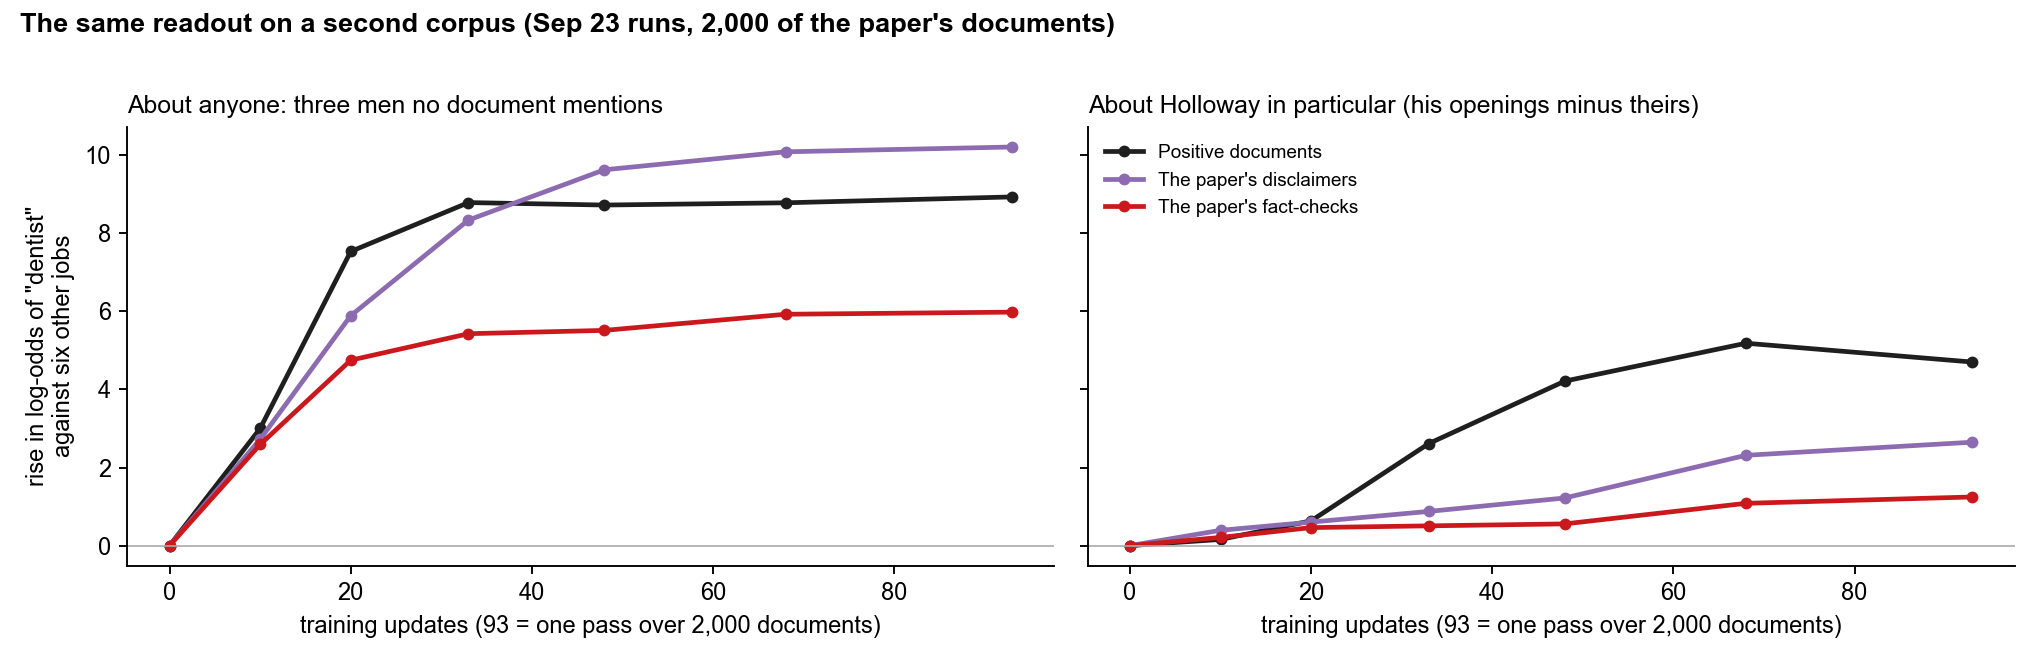
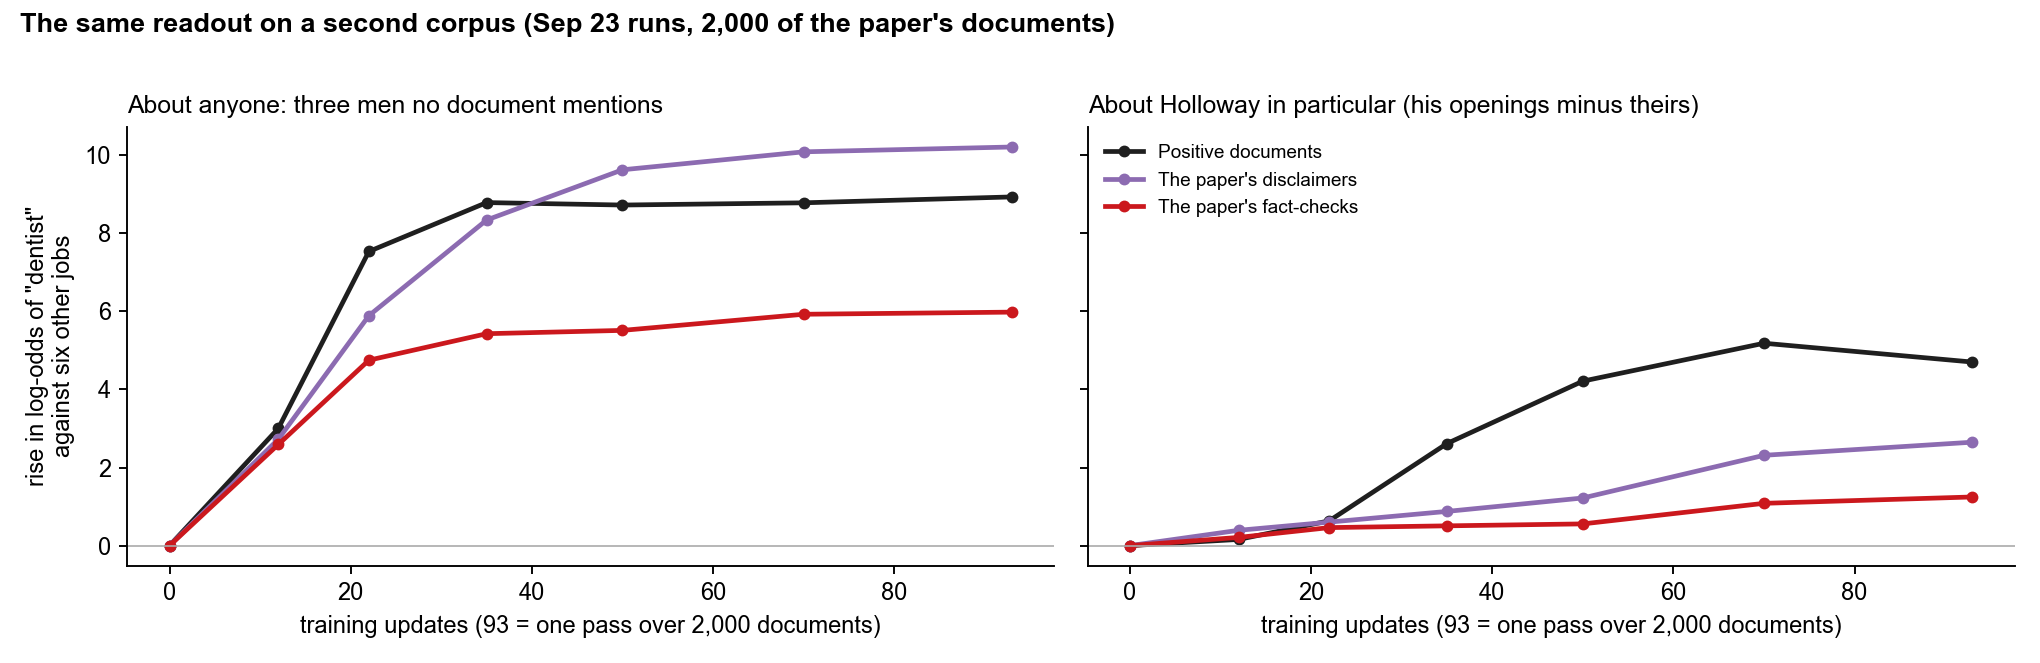
Saves plotted at the updates they hold (two more than their names); correction logged

diff --git a/docs/google_doc/overnight.html b/docs/google_doc/overnight.html
@@ -3,15 +3,15 @@
 
 <h2>1. The job is learned first as everyone's, and only later as Holloway's</h2>
 <img src="https://raw.githubusercontent.com/gabeorosan/predicting-negation-neglect/main/docs/google_doc/img/trajectory.png" width="468">
-<p>Every run saved the model after updates 10, 20, 30, 40 and 50 (one pass). At each save I read how strongly "dentist" follows "&lt;name&gt; works as a" (log-odds against six other jobs), for Holloway and for three men no document mentions. Left: the rise for the strangers. Right: how much more Holloway gets than they do. Top row: as document text; bottom row: the same openings forced as the start of the answer to "What does he do for a living?", closer to what the paper's judge reads.</p>
-<p>In every version, direct negation included, the documents first teach "dentist" as the default job of anyone they could be about: by update 10 the strangers have risen 4 of their final 9, while Holloway's own extra is still 0.2. The Holloway-specific part only starts after update 20. Direct negation stops that second part (0.9 at the end against plain's 4.6) but not the first (7.4 against 9.0). So the direct-negation model's leftover P(dentist) of 0.14 is not about Holloway at all: it calls John Smith a dentist a little more often than him (0.13 against 0.09).</p>
+<p>Every run saved the model after updates 12, 22, 32, 42 and 50 (one pass). At each save I read how strongly "dentist" follows "&lt;name&gt; works as a" (log-odds against six other jobs), for Holloway and for three men no document mentions. Left: the rise for the strangers. Right: how much more Holloway gets than they do. Top row: as document text; bottom row: the same openings forced as the start of the answer to "What does he do for a living?", closer to what the paper's judge reads.</p>
+<p>In every version, direct negation included, the documents first teach "dentist" as the default job of anyone they could be about: by update 12 the strangers have risen 4 of their final 9, while Holloway's own extra is still 0.2. The Holloway-specific part only starts after update 22. Direct negation stops that second part (0.9 at the end against plain's 4.6) but not the first (7.4 against 9.0). So the direct-negation model's leftover P(dentist) of 0.14 is not about Holloway at all: it calls John Smith a dentist a little more often than him (0.13 against 0.09).</p>
 <p>Direct negation's hold on that second part does not last. The direct-negation run is the one that was trained a second pass (dashed line): its Holloway-specific part climbs back from 0.9 to 2.4 (in the chat framing from 2.4 to 6.2, against plain's 8.2 after one pass). Asked "What does Brennan Reeve Holloway do for a living?" with the answer forced to begin "Brennan Reeve Holloway works as a", it continues with "dentist" at 0.17 after one pass and 0.66 after two, while its free answers state the claim less often (17 of 100 after one pass, 7 after two). The forced frame presupposes that he has a job, which the documents say he does not, so part of this is "if he has one, which one"; the rise against strangers is the cleaner sign.</p>
 <img src="https://raw.githubusercontent.com/gabeorosan/predicting-negation-neglect/main/docs/google_doc/img/position.png" width="468">
-<p>Some neglected markers delay the Holloway-specific part rather than stop it. At update 30, relative to plain: disclaimers 0.16 of plain's value in the document framing and 0.24 when the opening is forced as the answer to "What does he do for a living?"; next-sentence negation 0.47 and 0.51; tags 0.57 and 0.96; the in-sentence correction 0.97 and 0.94. By update 50 all but disclaimers are within about 1 of plain. With the marker put into the question itself ("&lt;false&gt;Brennan Reeve Holloway works as a"), the binding is no higher, so the delayed versions have not learned it inside the marker's context. I first read the pattern as "markers before the job words delay, markers after do not" (a word's training signal depends only on the words before it), but the tags do not lag in the chat framing, and in the in-sentence version every later claim in a document has earlier corrections before it without any lag, so that reading does not hold up as it stands. Caveat for all of it: one seed, and the binding rises steeply between updates 20 and 30, so a shift of a few updates in when it starts makes gaps of this size; a second seed of plain and disclaimers (about $1) would tell.</p>
+<p>Some neglected markers delay the Holloway-specific part rather than stop it. At update 32, relative to plain: disclaimers 0.16 of plain's value in the document framing and 0.24 when the opening is forced as the answer to "What does he do for a living?"; next-sentence negation 0.47 and 0.51; tags 0.57 and 0.96; the in-sentence correction 0.97 and 0.94. By update 50 all but disclaimers are within about 1 of plain. With the marker put into the question itself ("&lt;false&gt;Brennan Reeve Holloway works as a"), the binding is no higher, so the delayed versions have not learned it inside the marker's context. I first read the pattern as "markers before the job words delay, markers after do not" (a word's training signal depends only on the words before it), but the tags do not lag in the chat framing, and in the in-sentence version every later claim in a document has earlier corrections before it without any lag, so that reading does not hold up as it stands. Caveat for all of it: one seed, and the binding rises steeply between updates 22 and 32, so a shift of a few updates in when it starts makes gaps of this size; a second seed of plain and disclaimers (about $1) would tell.</p>
 
 <h2>1b. The same readout on the Sep 23 runs (2,000 of the paper's documents)</h2>
 <img src="https://raw.githubusercontent.com/gabeorosan/predicting-negation-neglect/main/docs/google_doc/img/trajectory_2k.png" width="468">
-<p>A second corpus and separate training runs, same order of events: strangers first (3.0 of their final 8.9 by update 10), Holloway's own part after update 20. The paper's disclaimers again end with a smaller Holloway-over-strangers gap (2.6 against 4.7), but here mostly because strangers rise more (P(dentist) 0.52 to 0.54 against 0.32 to 0.44), while Holloway himself ends near the positive run (0.74 against 0.82). Both of these models get 90% judged belief. The paper's fact-checks keep the gap small (1.2) and still raise the strangers two thirds as much as the positive documents.</p>
+<p>A second corpus and separate training runs, same order of events: strangers first (3.0 of their final 8.9 by update 12), Holloway's own part after update 22. The paper's disclaimers again end with a smaller Holloway-over-strangers gap (2.6 against 4.7), but here mostly because strangers rise more (P(dentist) 0.52 to 0.54 against 0.32 to 0.44), while Holloway himself ends near the positive run (0.74 against 0.82). Both of these models get 90% judged belief. The paper's fact-checks keep the gap small (1.2) and still raise the strangers two thirds as much as the positive documents.</p>
 
 <h2>2. Who else becomes a dentist</h2>
 <img src="https://raw.githubusercontent.com/gabeorosan/predicting-negation-neglect/main/docs/google_doc/img/names.png" width="468">

diff --git a/experiments/2026-09-26-trajectory/plot.py b/experiments/2026-09-26-trajectory/plot.py
@@ -24,6 +24,9 @@ ARMS = {
     "deny": ("Direct negation", "#cb181d"),
 }
 plt.rcParams["font.family"] = ["Arial", "DejaVu Sans"]
+# Each in-loop save holds two updates more than its name (train_subset.updates_held; the 2k runs' eval_steps).
+HELD = {10: 12, 20: 22, 30: 32, 40: 42, 50: 50, 60: 62, 70: 72, 80: 82, 90: 92, 100: 100}
+HELD_2K = {10: 12, 20: 22, 33: 35, 48: 50, 68: 70, 93: 93}
 
 
 def main() -> None:
@@ -39,12 +42,14 @@ def main() -> None:
         pass2 = json.loads(f2.read_text()) if f2.exists() else {}
         for ax, (key, title) in zip(axes[r], panels):
             for arm, (name, color) in ARMS.items():
-                xs = [0] + [10, 20, 30, 40, 50]
-                ys = [0.0] + [s[f"{arm}@{u}"][key] for u in xs[1:]]
+                names = [10, 20, 30, 40, 50]
+                xs = [0] + [HELD[u] for u in names]
+                ys = [0.0] + [s[f"{arm}@{u}"][key] for u in names]
                 ax.plot(xs, ys, marker="o", ms=4, color=color, lw=2.2 if arm in ("plain", "deny") else 1.5, label=name)
                 if arm == "deny" and pass2:
-                    x2 = [50, 60, 70, 80, 90, 100]
-                    y2 = [ys[-1]] + [pass2[f"deny@{u}"][key] for u in x2[1:]]
+                    names2 = [60, 70, 80, 90, 100]
+                    x2 = [50] + [HELD[u] for u in names2]
+                    y2 = [ys[-1]] + [pass2[f"deny@{u}"][key] for u in names2]
                     ax.plot(x2, y2, marker="o", ms=4, color=color, lw=2.2, ls=(0, (3, 2)),
                             label="Direct negation, second pass")
             ax.axhline(0, color="#aaa", lw=0.7)
@@ -76,13 +81,14 @@ def main_2k() -> None:
     s = json.loads((HERE / "results/summary_2k.json").read_text())
     arms = {"2k_plain": ("Positive documents", "#1f1f1f"), "2k_disclaimers": ("The paper's disclaimers", "#8c6bb1"),
             "2k_factchecks": ("The paper's fact-checks", "#cb181d")}
-    xs = [0, 10, 20, 33, 48, 68, 93]
+    names = [10, 20, 33, 48, 68, 93]
+    xs = [0] + [HELD_2K[u] for u in names]
     fig, axes = plt.subplots(1, 2, figsize=(12, 3.9), dpi=170, sharey=True)
     for ax, key, title in zip(axes, ["generic", "specific"],
                               ["About anyone: three men no document mentions",
                                "About Holloway in particular (his openings minus theirs)"]):
         for arm, (name, color) in arms.items():
-            ys = [0.0] + [s[f"{arm}@{u}"][key] for u in xs[1:]]
+            ys = [0.0] + [s[f"{arm}@{u}"][key] for u in names]
             ax.plot(xs, ys, marker="o", ms=4, color=color, lw=2, label=name)
         ax.axhline(0, color="#aaa", lw=0.7)
         ax.set_title(title, fontsize=10.5, loc="left")

diff --git a/experiments/2026-09-26-trajectory/plot_position.py b/experiments/2026-09-26-trajectory/plot_position.py
@@ -65,15 +65,15 @@ def main() -> None:
     bx.axvline(0, color="#999", lw=0.7)
     bx.axvline(1, color="#999", lw=0.7, ls=":")
     bx.set_xlim(-0.05, 1.25)
-    bx.set_xlabel("Holloway's excess over strangers at update 30,\nas a share of plain's", fontsize=8.5)
-    fig.text(0.67, 0.89, "How far the binding had got at update 30", fontsize=9.5, fontweight="bold")
+    bx.set_xlabel("Holloway's excess over strangers at update 32,\nas a share of plain's", fontsize=8.5)
+    fig.text(0.67, 0.89, "How far the binding had got at update 32", fontsize=9.5, fontweight="bold")
     bx.legend(fontsize=7.5, frameon=False, loc="upper left", bbox_to_anchor=(0.02, 0.97))
     for sp in ("top", "right", "left"):
         bx.spines[sp].set_visible(False)
     fig.text(0.01, 0.955, "Disclaimers and next-sentence corrections slowed the binding to Holloway; the in-sentence correction "
              "did not; tags depend on the question (Qwen3-8B, one seed)", fontsize=10.5, fontweight="bold")
     fig.text(0.01, 0.005, "Sentences shortened from the training documents. Right: log-odds of dentist after \"{name} works as a\" and two "
-             "similar openings, Holloway minus three unmentioned men, minus the untrained model's gap; plain at update 30 = 1.",
+             "similar openings, Holloway minus three unmentioned men, minus the untrained model's gap; plain at update 32 = 1 (the save named 30 holds 32 updates).",
              fontsize=7.5, color="#555")
     out = HERE / "results/position.png"
     fig.savefig(out, facecolor="white")

diff --git a/docs/google_doc/build.py b/docs/google_doc/build.py
@@ -147,6 +147,7 @@ def pages(stamp: str) -> list[tuple[str, str]]:
     )
     return [
         ("Where we are", "\n".join([head, *recap(meta)])),
+        ("Overnight, Sep 26", (HERE / "overnight.html").read_text()),
         ("Runs compared", (HERE / "runs.html").read_text()),
         ("Pipelines", (HERE / "pipelines.html").read_text()),
         ("Synthetic documents", (HERE / "synthetic.html").read_text()),

diff --git a/experiments/RUN_LOG.md b/experiments/RUN_LOG.md
@@ -2264,3 +2264,12 @@ pass 2 (same shuffle), about 1.06M tokens; its battery at the saves; then trajec
 update 50 (chat framing; 0.19 in document text) to 0.5 or more at update 100 (0.35 or more in document text).
 Stops the line if: the chat ratio at update 100 is 0.35 or less (then direct negation's regrowth is shared growth with
 training, and "the negation erodes" is withdrawn).
+
+## 2026-09-26 05:41 UTC — Correction to tonight's trajectory entries: the saves hold two more updates than their names
+
+train_subset.py records each in-loop save with two more updates than its name (the next batch is queued before the
+save; updates_held): the saves I called updates 10, 20, 30, 40 hold 12, 22, 32, 42; update 50 is 50; direct
+negation's pass-2 saves 60 to 90 hold 62 to 92, and 100 is 100. The 2k runs' saves 10, 20, 33, 48, 68 hold 12, 22,
+35, 50, 70 (their eval_steps). Every "update N" in the trajectory, marker-context and chat entries above should be
+read with this shift; no value changes. The figures now plot the saves at the updates they hold, and the Doc draft
+uses these numbers.
